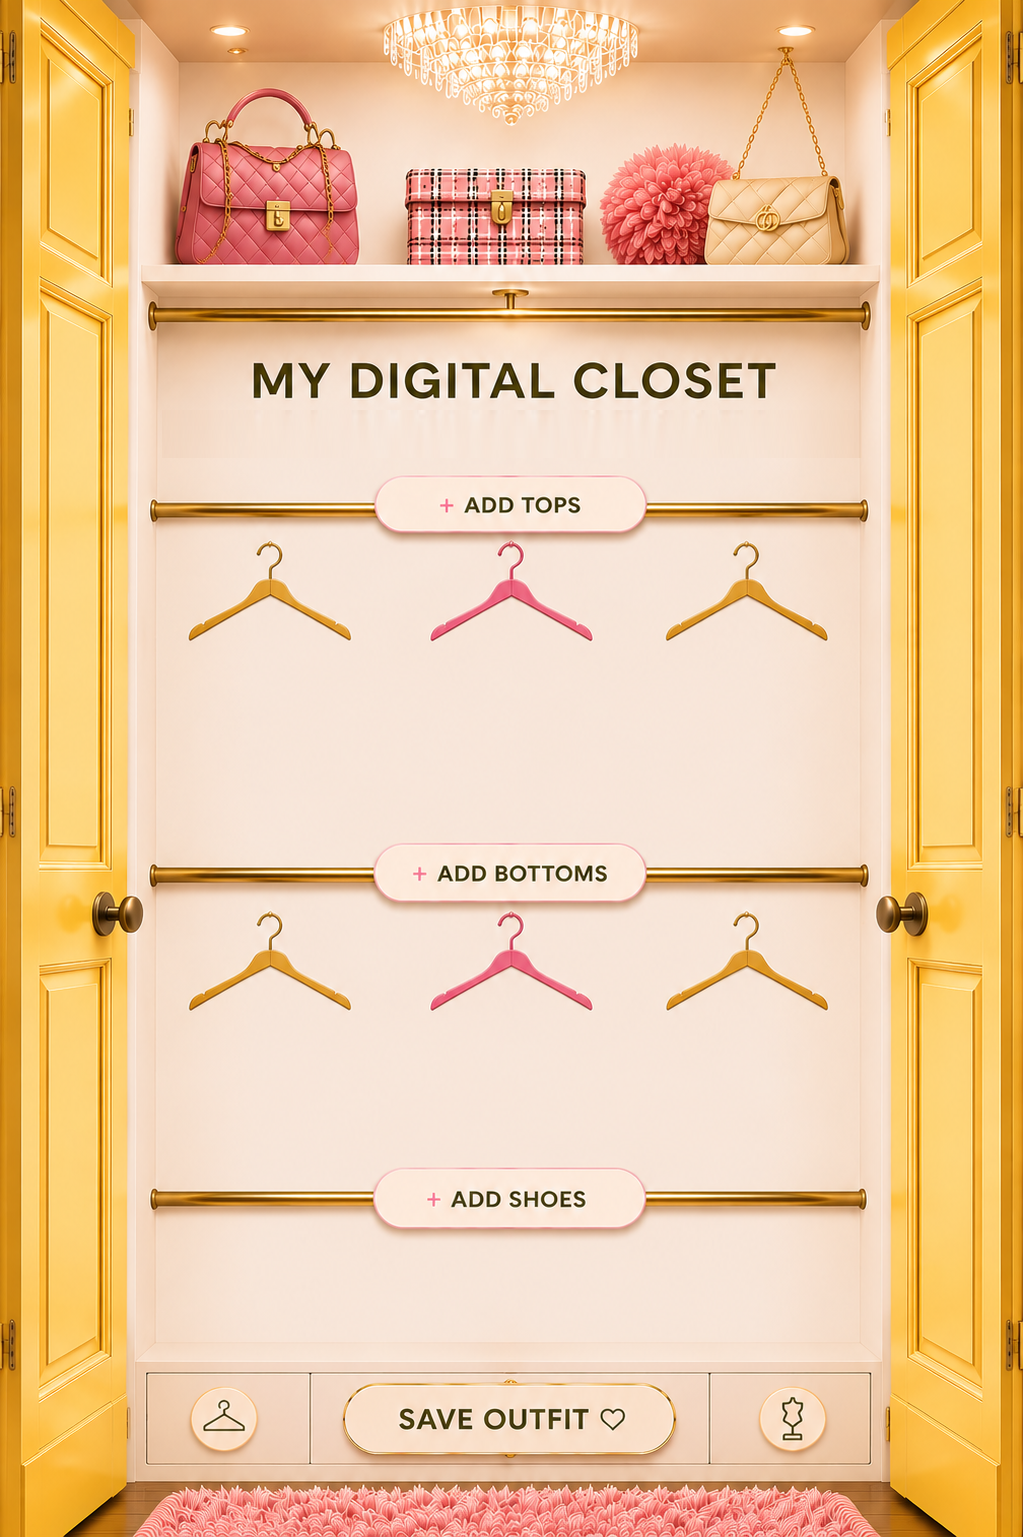
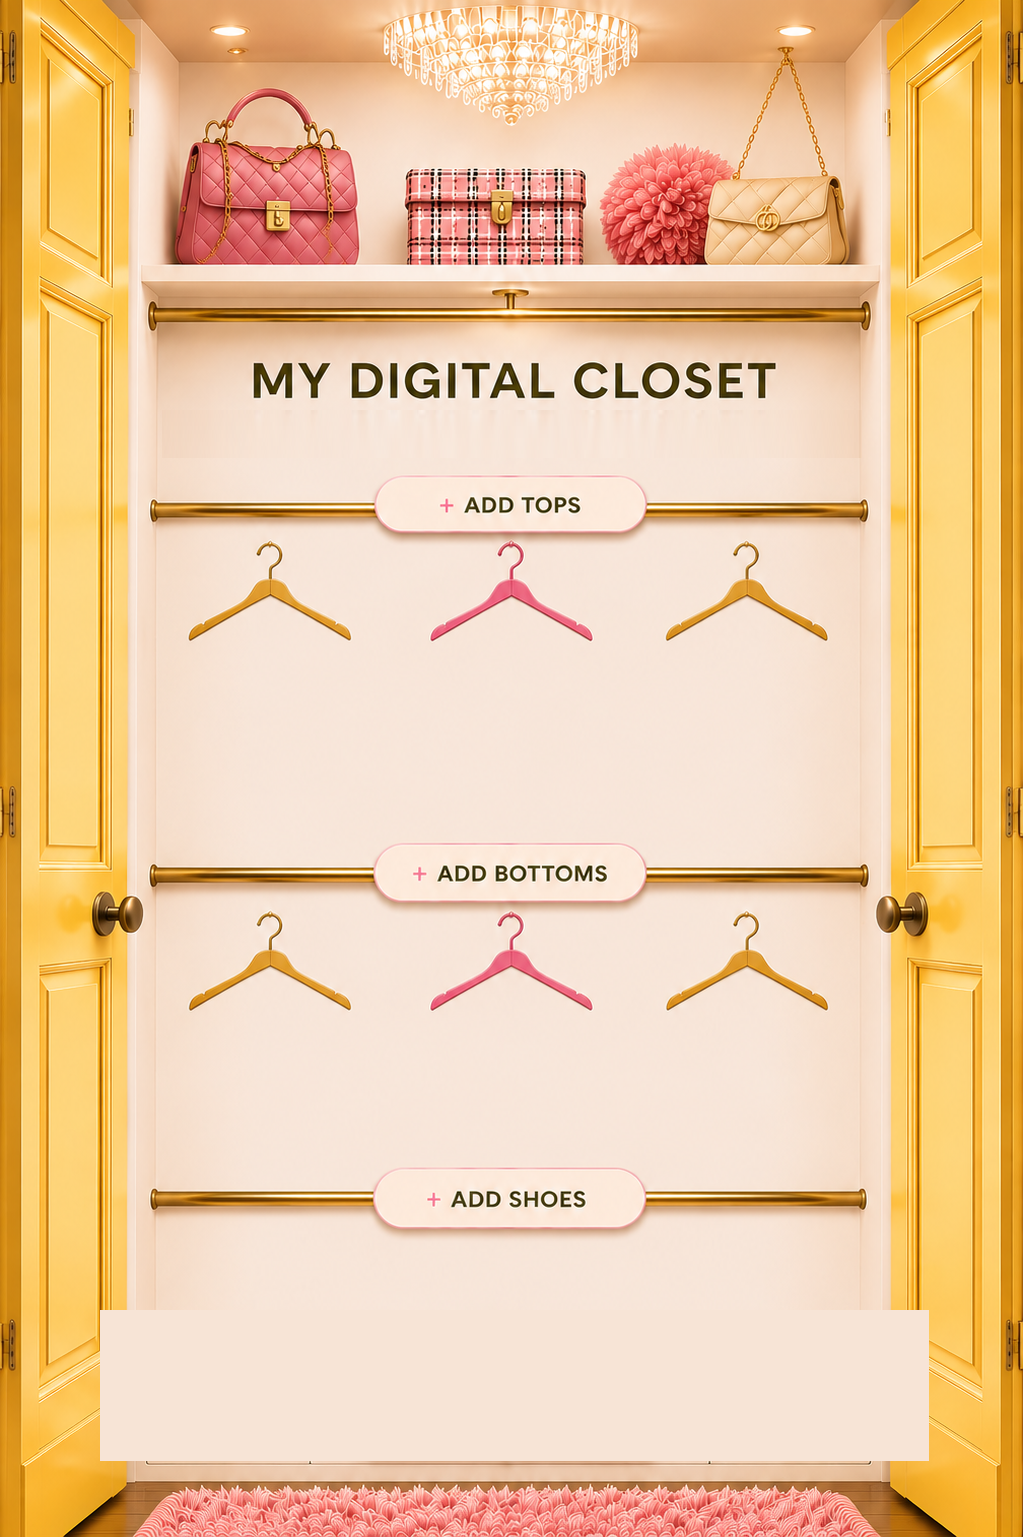
Update wardrobe page layout and closet background image
Replit-Commit-Author: Agent

Changed region(s): [[0.0909, 0.8432, 0.9091, 0.9681]]

diff --git a/artifacts/outfit-generator/src/pages/wardrobe.tsx b/artifacts/outfit-generator/src/pages/wardrobe.tsx
@@ -29,7 +29,7 @@ import {
   useSaveOutfit, useListOutfits, getListOutfitsQueryKey,
   ClothingItem,
 } from "@workspace/api-client-react";
-import { X } from "lucide-react";
+import { X, Shuffle } from "lucide-react";
 import { motion, AnimatePresence } from "framer-motion";
 import { ClosetRow, ClosetRowHandle } from "@/components/ClosetRow";
 import { QuickAddSheet } from "@/components/clothing/QuickAddSheet";
@@ -93,26 +93,23 @@ const LM = {
     {
       btnCY:     0.781, // centre of "+ ADD SHOES" pill (rod y≈1200)
       boxY:      0.790, // just below SHOES rod (y≈1214) — no hangers hanging
-      boxBot:    0.896, // just above SAVE bar (y≈1377)
+      boxBot:    0.934, // extended — drawer area now painted over (y≈1435)
       hangerTop: 0.790,
       hangerBot: 0.800, // minimal overlay — only covers the rod bottom shadow
     },
   ],
 
-  // SAVE OUTFIT bar
-  barY:     0.898,
-  barBot:   0.973,
-  hangerCX: 0.140,
-  saveBtnL: 0.228,
-  saveBtnR: 0.772,
-  manneCX:  0.860,
 } as const;
 
 // ── useImageRect ─────────────────────────────────────────────────────────────
-interface ImgRect { top: number; left: number; width: number; height: number }
+interface ImgRect {
+  top: number; left: number; width: number; height: number;
+  /** Full height of the positioning container (not just the rendered image). */
+  containerH: number;
+}
 
 function useImageRect(containerRef: RefObject<HTMLDivElement>): ImgRect {
-  const [rect, setRect] = useState<ImgRect>({ top: 0, left: 0, width: 0, height: 0 });
+  const [rect, setRect] = useState<ImgRect>({ top: 0, left: 0, width: 0, height: 0, containerH: 0 });
   useEffect(() => {
     const compute = () => {
       const c = containerRef.current;
@@ -125,10 +122,10 @@ function useImageRect(containerRef: RefObject<HTMLDivElement>): ImgRect {
         // Container wider than image: fill height, center horizontally
         rH = cH; rW = cH * iR; rT = 0; rL = (cW - rW) / 2;
       } else {
-        // Container taller than image (new wider image): fill width, anchor top
+        // Container taller than image: fill width, anchor top
         rW = cW; rH = cW / iR; rL = 0; rT = 0;
       }
-      setRect({ top: rT, left: rL, width: rW, height: rH });
+      setRect({ top: rT, left: rL, width: rW, height: rH, containerH: cH });
     };
     compute();
     window.addEventListener("resize", compute);
@@ -262,10 +259,9 @@ export default function WardrobePage() {
       style={{
         position: "relative",
         width: "100%",
-        // Constrain height so the image fills the container exactly (no letterbox gap).
-        // On portrait phones the image fills width at 1023:1537 ratio; use that height
-        // but never exceed the available viewport above the nav bar.
-        height: `min(calc(100dvh - ${NAV_H}px), calc(100vw * ${(IMG_H / IMG_W).toFixed(6)}))`,
+        // Full viewport height above the nav bar. The image fills width (~586 px on
+        // a 390-wide phone) and the remaining floor space below it holds the save bar.
+        height: `calc(100dvh - ${NAV_H}px)`,
         overflow: "hidden",
         // Door-yellow background blends with yellow doors visible at sides/bottom
         background: "#F0C030",
@@ -410,135 +406,144 @@ export default function WardrobePage() {
             );
           })}
 
-          {/* ── SAVE OUTFIT bar — transparent tap zones ── */}
-
-          {/* Shuffle / hanger icon */}
-          <button
-            onClick={handleShuffle}
-            data-testid="button-shuffle"
-            aria-label="Shuffle outfit"
-            title="Shuffle outfit"
+          {/* ── SAVE OUTFIT bar — sits in the floor zone below the image ──
+              The baked-in drawer graphic has been painted out of closet-bg.png,
+              so these are real visible buttons (not transparent tap zones).
+              Positioned at ir.height + 8 so they land on the yellow floor/rug area. */}
+          <div
             style={{
               position: "absolute",
-              top:   pY(ir, LM.barY),
-              left:  pX(ir, LM.hangerCX) - 26,
-              width: 52,
-              height: pH(ir, LM.barBot - LM.barY),
+              // Portrait: land in floor zone below image. Landscape/wide: clamp so bar
+            // stays inside the container (image fills full height, no floor zone).
+            top:   Math.min(ir.top + ir.height + 8, ir.containerH - 56),
+              left:  pX(ir, LM.doorL),
+              right: ir.left + pW(ir, 1 - LM.doorR),
+              height: 48,
               zIndex: 14,
-              background: "transparent",
-              border: "none",
-              cursor: "pointer",
+              display: "flex",
+              alignItems: "center",
+              gap: 8,
             }}
-          />
+          >
+            {/* Shuffle — left circle */}
+            <button
+              onClick={handleShuffle}
+              data-testid="button-shuffle"
+              aria-label="Shuffle outfit"
+              title="Shuffle outfit"
+              style={{
+                width: 48, height: 48, borderRadius: "50%", flexShrink: 0,
+                background: "rgba(255,248,230,0.97)",
+                border: "1.5px solid rgba(196,155,42,0.52)",
+                boxShadow: "0 2px 8px rgba(0,0,0,0.14)",
+                cursor: "pointer",
+                display: "flex", alignItems: "center", justifyContent: "center",
+              }}
+            >
+              <Shuffle style={{ width: 18, height: 18, color: GOLD }} />
+            </button>
 
-          {/* Save Outfit */}
-          <AnimatePresence mode="wait">
-            {isSaveOpen ? (
-              <motion.div
-                key="input"
-                initial={{ opacity: 0, y: 6 }}
-                animate={{ opacity: 1, y: 0 }}
-                exit={{ opacity: 0, y: 6 }}
-                style={{
-                  position: "absolute",
-                  bottom: `calc(100% - ${pY(ir, LM.barY)}px + 8px)`,
-                  left:  pX(ir, LM.saveBtnL),
-                  right: ir.left + pW(ir, 1 - LM.saveBtnR),
-                  display: "flex",
-                  gap: 6,
-                  zIndex: 20,
-                }}
-              >
-                <input
-                  autoFocus
-                  type="text"
-                  placeholder="Name this outfit…"
-                  value={saveName}
-                  onChange={e => setSaveName(e.target.value)}
-                  onKeyDown={e => e.key === "Enter" && handleSave()}
-                  data-testid="input-outfit-name"
-                  style={{
-                    flex: 1, height: 38, borderRadius: 20, padding: "0 14px",
-                    fontSize: 13, fontWeight: 600, color: "#3a2400",
-                    background: "rgba(255,252,245,0.98)",
-                    border: "1.5px solid rgba(196,155,42,0.50)",
-                    boxShadow: "0 3px 12px rgba(0,0,0,0.14)",
-                    outline: "none",
-                  }}
-                />
-                <button
-                  onClick={() => { setIsSaveOpen(false); setSaveName(""); }}
-                  style={{
-                    width: 38, height: 38, borderRadius: "50%", flexShrink: 0,
-                    background: "rgba(255,250,240,0.97)",
-                    border: "1.5px solid rgba(196,155,42,0.36)",
-                    display: "flex", alignItems: "center", justifyContent: "center",
-                    cursor: "pointer",
-                  }}
-                >
-                  <X style={{ width: 14, height: 14, color: GOLD }} />
-                </button>
-                <button
-                  onClick={handleSave}
-                  disabled={!saveName.trim() || saveOutfit.isPending}
-                  data-testid="button-save-outfit-confirm"
-                  style={{
-                    padding: "0 16px", height: 38, borderRadius: 20, flexShrink: 0,
-                    background: "linear-gradient(to bottom,#f5d840,#c89018)",
-                    color: "#3a2400", fontWeight: 700, fontSize: 13, border: "none",
-                    boxShadow: "0 3px 10px rgba(200,168,24,0.32)",
-                    opacity: (!saveName.trim() || saveOutfit.isPending) ? 0.42 : 1,
-                    cursor: "pointer",
-                  }}
-                >
-                  {saveOutfit.isPending ? "…" : "Save ♡"}
-                </button>
-              </motion.div>
-            ) : (
-              <button
-                key="save-zone"
-                onClick={handleSaveClick}
-                data-testid="button-save-outfit"
-                aria-label="Save Outfit"
-                style={{
-                  position: "absolute",
-                  top:   pY(ir, LM.barY),
-                  left:  pX(ir, LM.saveBtnL),
-                  right: ir.left + pW(ir, 1 - LM.saveBtnR),
-                  height: pH(ir, LM.barBot - LM.barY),
-                  zIndex: 14,
-                  background: "transparent",
-                  border: "none",
-                  cursor: "pointer",
-                  borderRadius: 20,
-                  boxShadow: canSave
-                    ? "0 0 0 2.5px rgba(196,155,42,0.55), 0 4px 16px rgba(200,168,24,0.28)"
-                    : "none",
-                }}
-              />
-            )}
-          </AnimatePresence>
+            {/* Save Outfit — expands to fill remaining space */}
+            <div style={{ flex: 1, minWidth: 0 }}>
+              <AnimatePresence mode="wait">
+                {isSaveOpen ? (
+                  <motion.div
+                    key="input"
+                    initial={{ opacity: 0, y: 4 }}
+                    animate={{ opacity: 1, y: 0 }}
+                    exit={{ opacity: 0, y: 4 }}
+                    style={{ display: "flex", gap: 6, width: "100%" }}
+                  >
+                    <input
+                      autoFocus
+                      type="text"
+                      placeholder="Name this outfit…"
+                      value={saveName}
+                      onChange={e => setSaveName(e.target.value)}
+                      onKeyDown={e => e.key === "Enter" && handleSave()}
+                      data-testid="input-outfit-name"
+                      style={{
+                        flex: 1, height: 48, borderRadius: 24, padding: "0 14px",
+                        fontSize: 13, fontWeight: 600, color: "#3a2400",
+                        background: "rgba(255,252,245,0.98)",
+                        border: "1.5px solid rgba(196,155,42,0.50)",
+                        boxShadow: "0 3px 12px rgba(0,0,0,0.14)",
+                        outline: "none", minWidth: 0,
+                      }}
+                    />
+                    <button
+                      onClick={() => { setIsSaveOpen(false); setSaveName(""); }}
+                      style={{
+                        width: 48, height: 48, borderRadius: "50%", flexShrink: 0,
+                        background: "rgba(255,250,240,0.97)",
+                        border: "1.5px solid rgba(196,155,42,0.36)",
+                        display: "flex", alignItems: "center", justifyContent: "center",
+                        cursor: "pointer",
+                      }}
+                    >
+                      <X style={{ width: 14, height: 14, color: GOLD }} />
+                    </button>
+                    <button
+                      onClick={handleSave}
+                      disabled={!saveName.trim() || saveOutfit.isPending}
+                      data-testid="button-save-outfit-confirm"
+                      style={{
+                        padding: "0 16px", height: 48, borderRadius: 24, flexShrink: 0,
+                        background: "linear-gradient(to bottom,#f5d840,#c89018)",
+                        color: "#3a2400", fontWeight: 700, fontSize: 13, border: "none",
+                        boxShadow: "0 3px 10px rgba(200,168,24,0.32)",
+                        opacity: (!saveName.trim() || saveOutfit.isPending) ? 0.42 : 1,
+                        cursor: "pointer",
+                      }}
+                    >
+                      {saveOutfit.isPending ? "…" : "Save ♡"}
+                    </button>
+                  </motion.div>
+                ) : (
+                  <button
+                    key="save-zone"
+                    onClick={handleSaveClick}
+                    data-testid="button-save-outfit"
+                    aria-label="Save Outfit"
+                    style={{
+                      width: "100%", height: 48, borderRadius: 24,
+                      background: "rgba(255,248,230,0.97)",
+                      border: "1.5px solid rgba(196,155,42,0.52)",
+                      color: "#5a3a00", fontWeight: 700, fontSize: 13,
+                      letterSpacing: "0.07em",
+                      cursor: "pointer",
+                      boxShadow: canSave
+                        ? "0 0 0 2.5px rgba(196,155,42,0.55), 0 4px 16px rgba(200,168,24,0.28)"
+                        : "0 2px 8px rgba(0,0,0,0.14)",
+                    }}
+                  >
+                    SAVE OUTFIT ♡
+                  </button>
+                )}
+              </AnimatePresence>
+            </div>
 
-          {/* Mannequin / dress-form icon */}
-          <button
-            onClick={handleMannequinClick}
-            disabled={!canSave}
-            data-testid="button-view-mannequin"
-            aria-label="View outfit on mannequin"
-            title="View on mannequin"
-            style={{
-              position: "absolute",
-              top:   pY(ir, LM.barY),
-              left:  pX(ir, LM.manneCX) - 26,
-              width: 52,
-              height: pH(ir, LM.barBot - LM.barY),
-              zIndex: 14,
-              background: "transparent",
-              border: "none",
-              cursor: canSave ? "pointer" : "default",
-              opacity: canSave ? 1 : 0.32,
-            }}
-          />
+            {/* Mannequin — right circle */}
+            <button
+              onClick={handleMannequinClick}
+              disabled={!canSave}
+              data-testid="button-view-mannequin"
+              aria-label="View outfit on mannequin"
+              title="View on mannequin"
+              style={{
+                width: 48, height: 48, borderRadius: "50%", flexShrink: 0,
+                background: "rgba(255,248,230,0.97)",
+                border: "1.5px solid rgba(196,155,42,0.52)",
+                boxShadow: "0 2px 8px rgba(0,0,0,0.14)",
+                cursor: canSave ? "pointer" : "default",
+                display: "flex", alignItems: "center", justifyContent: "center",
+                opacity: canSave ? 1 : 0.32,
+                fontSize: "1.25rem",
+              }}
+            >
+              👗
+            </button>
+          </div>
         </>
       )}
 